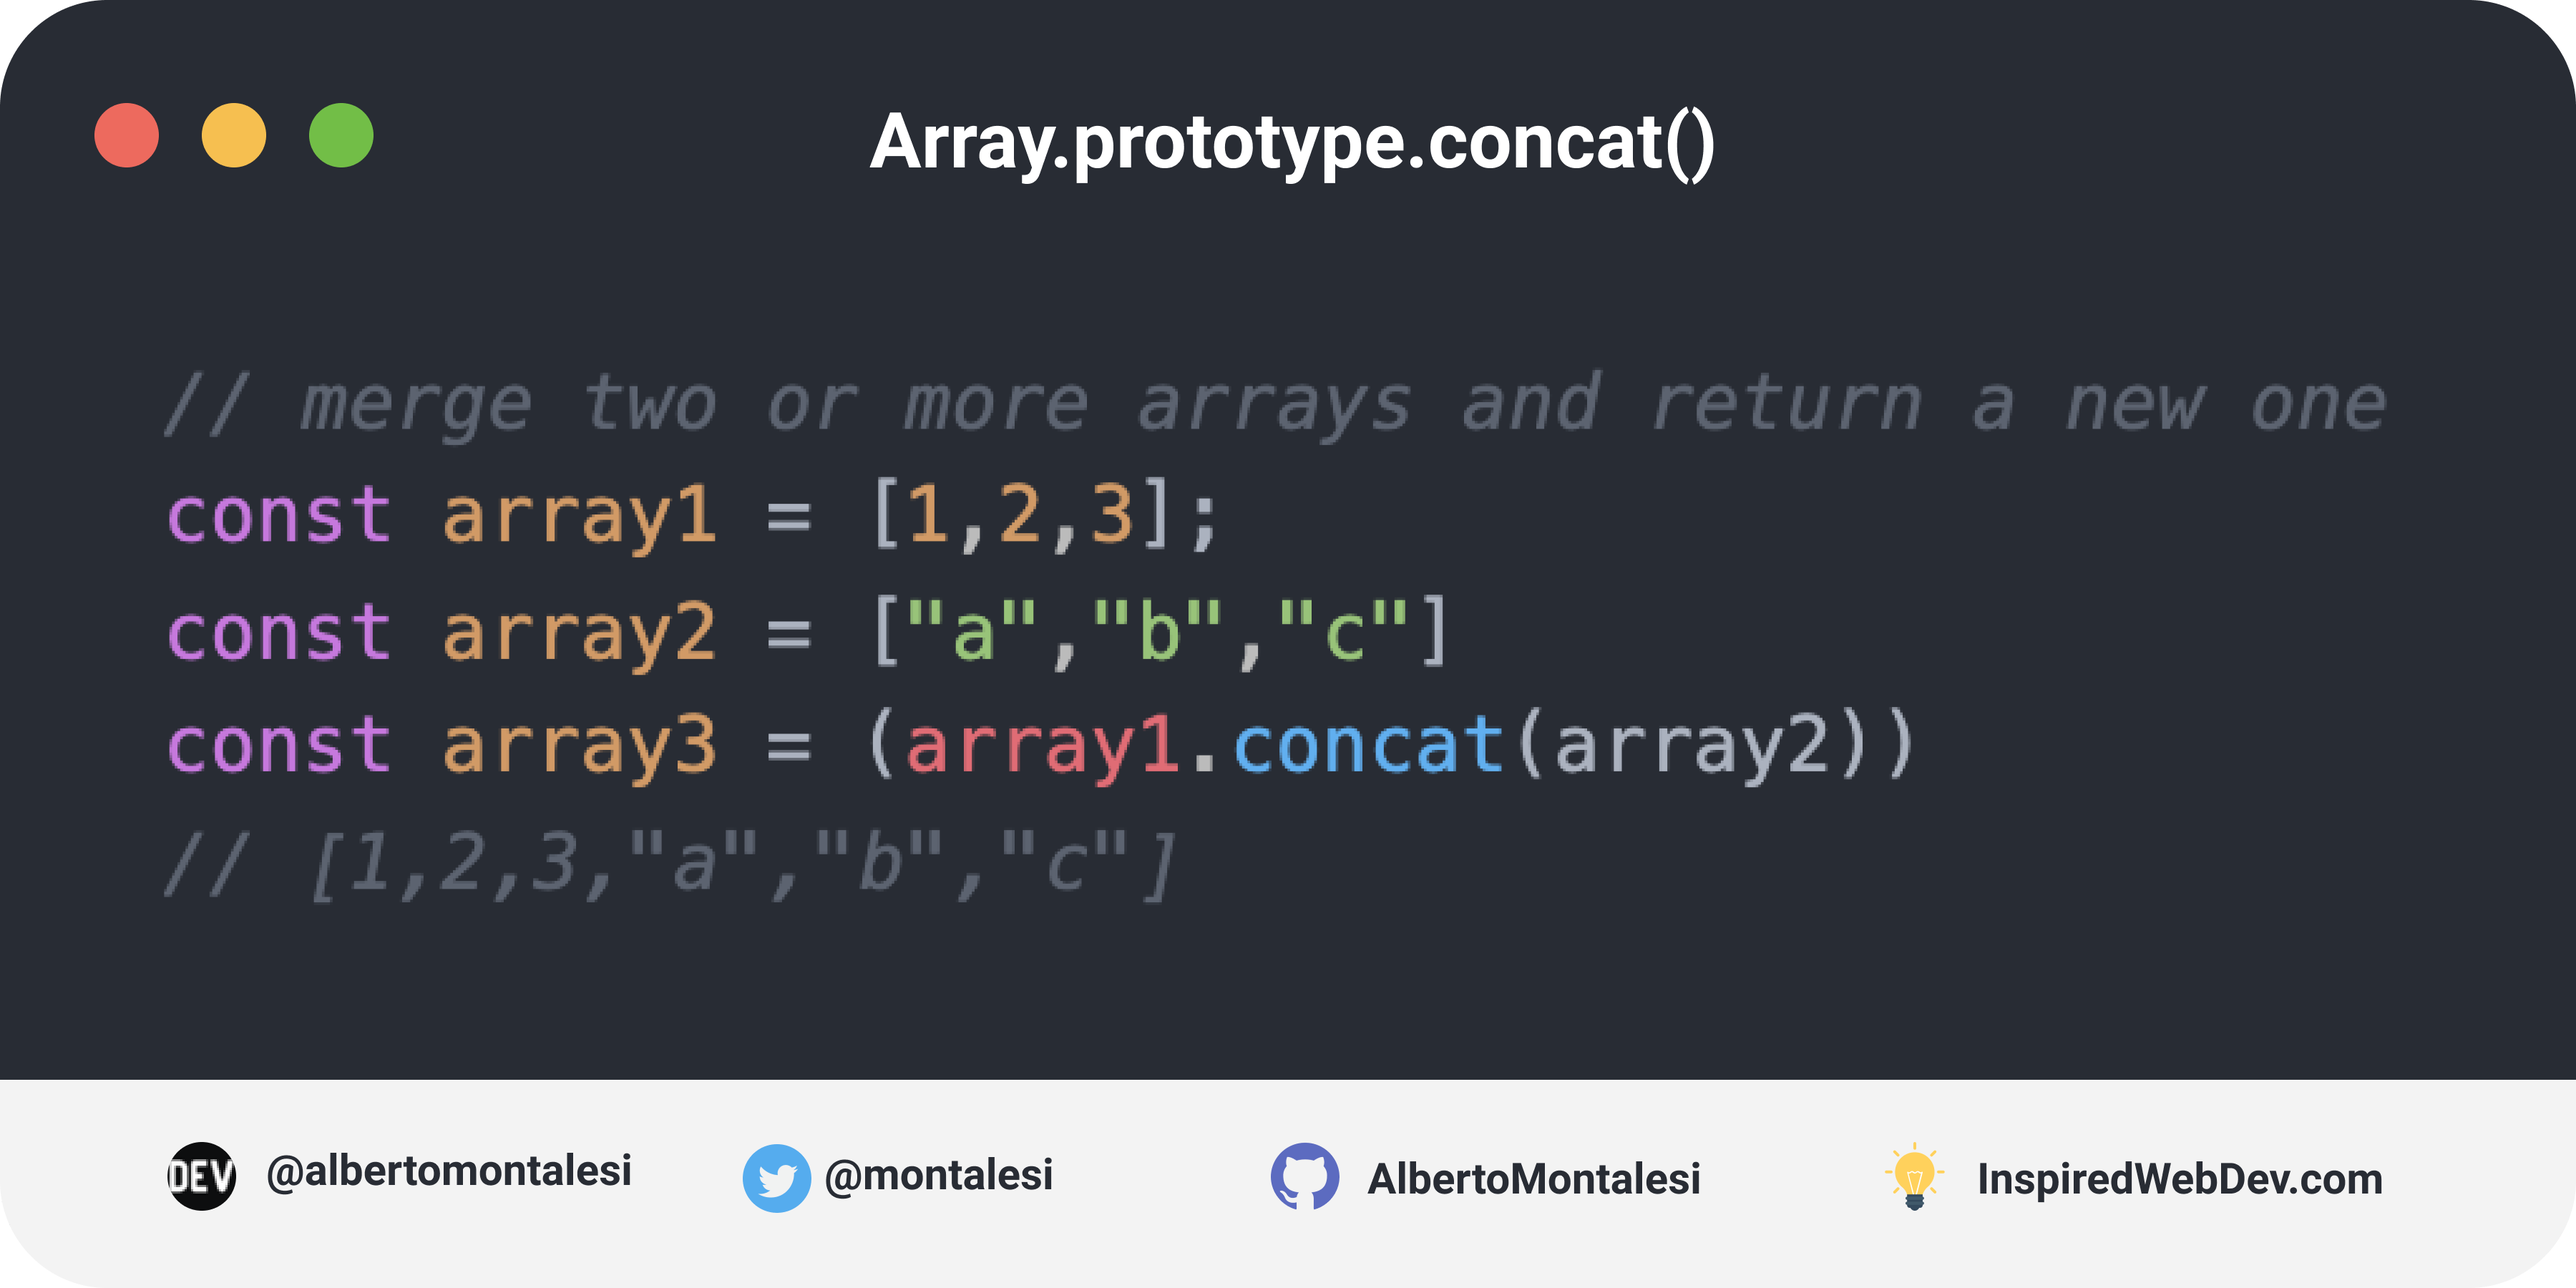
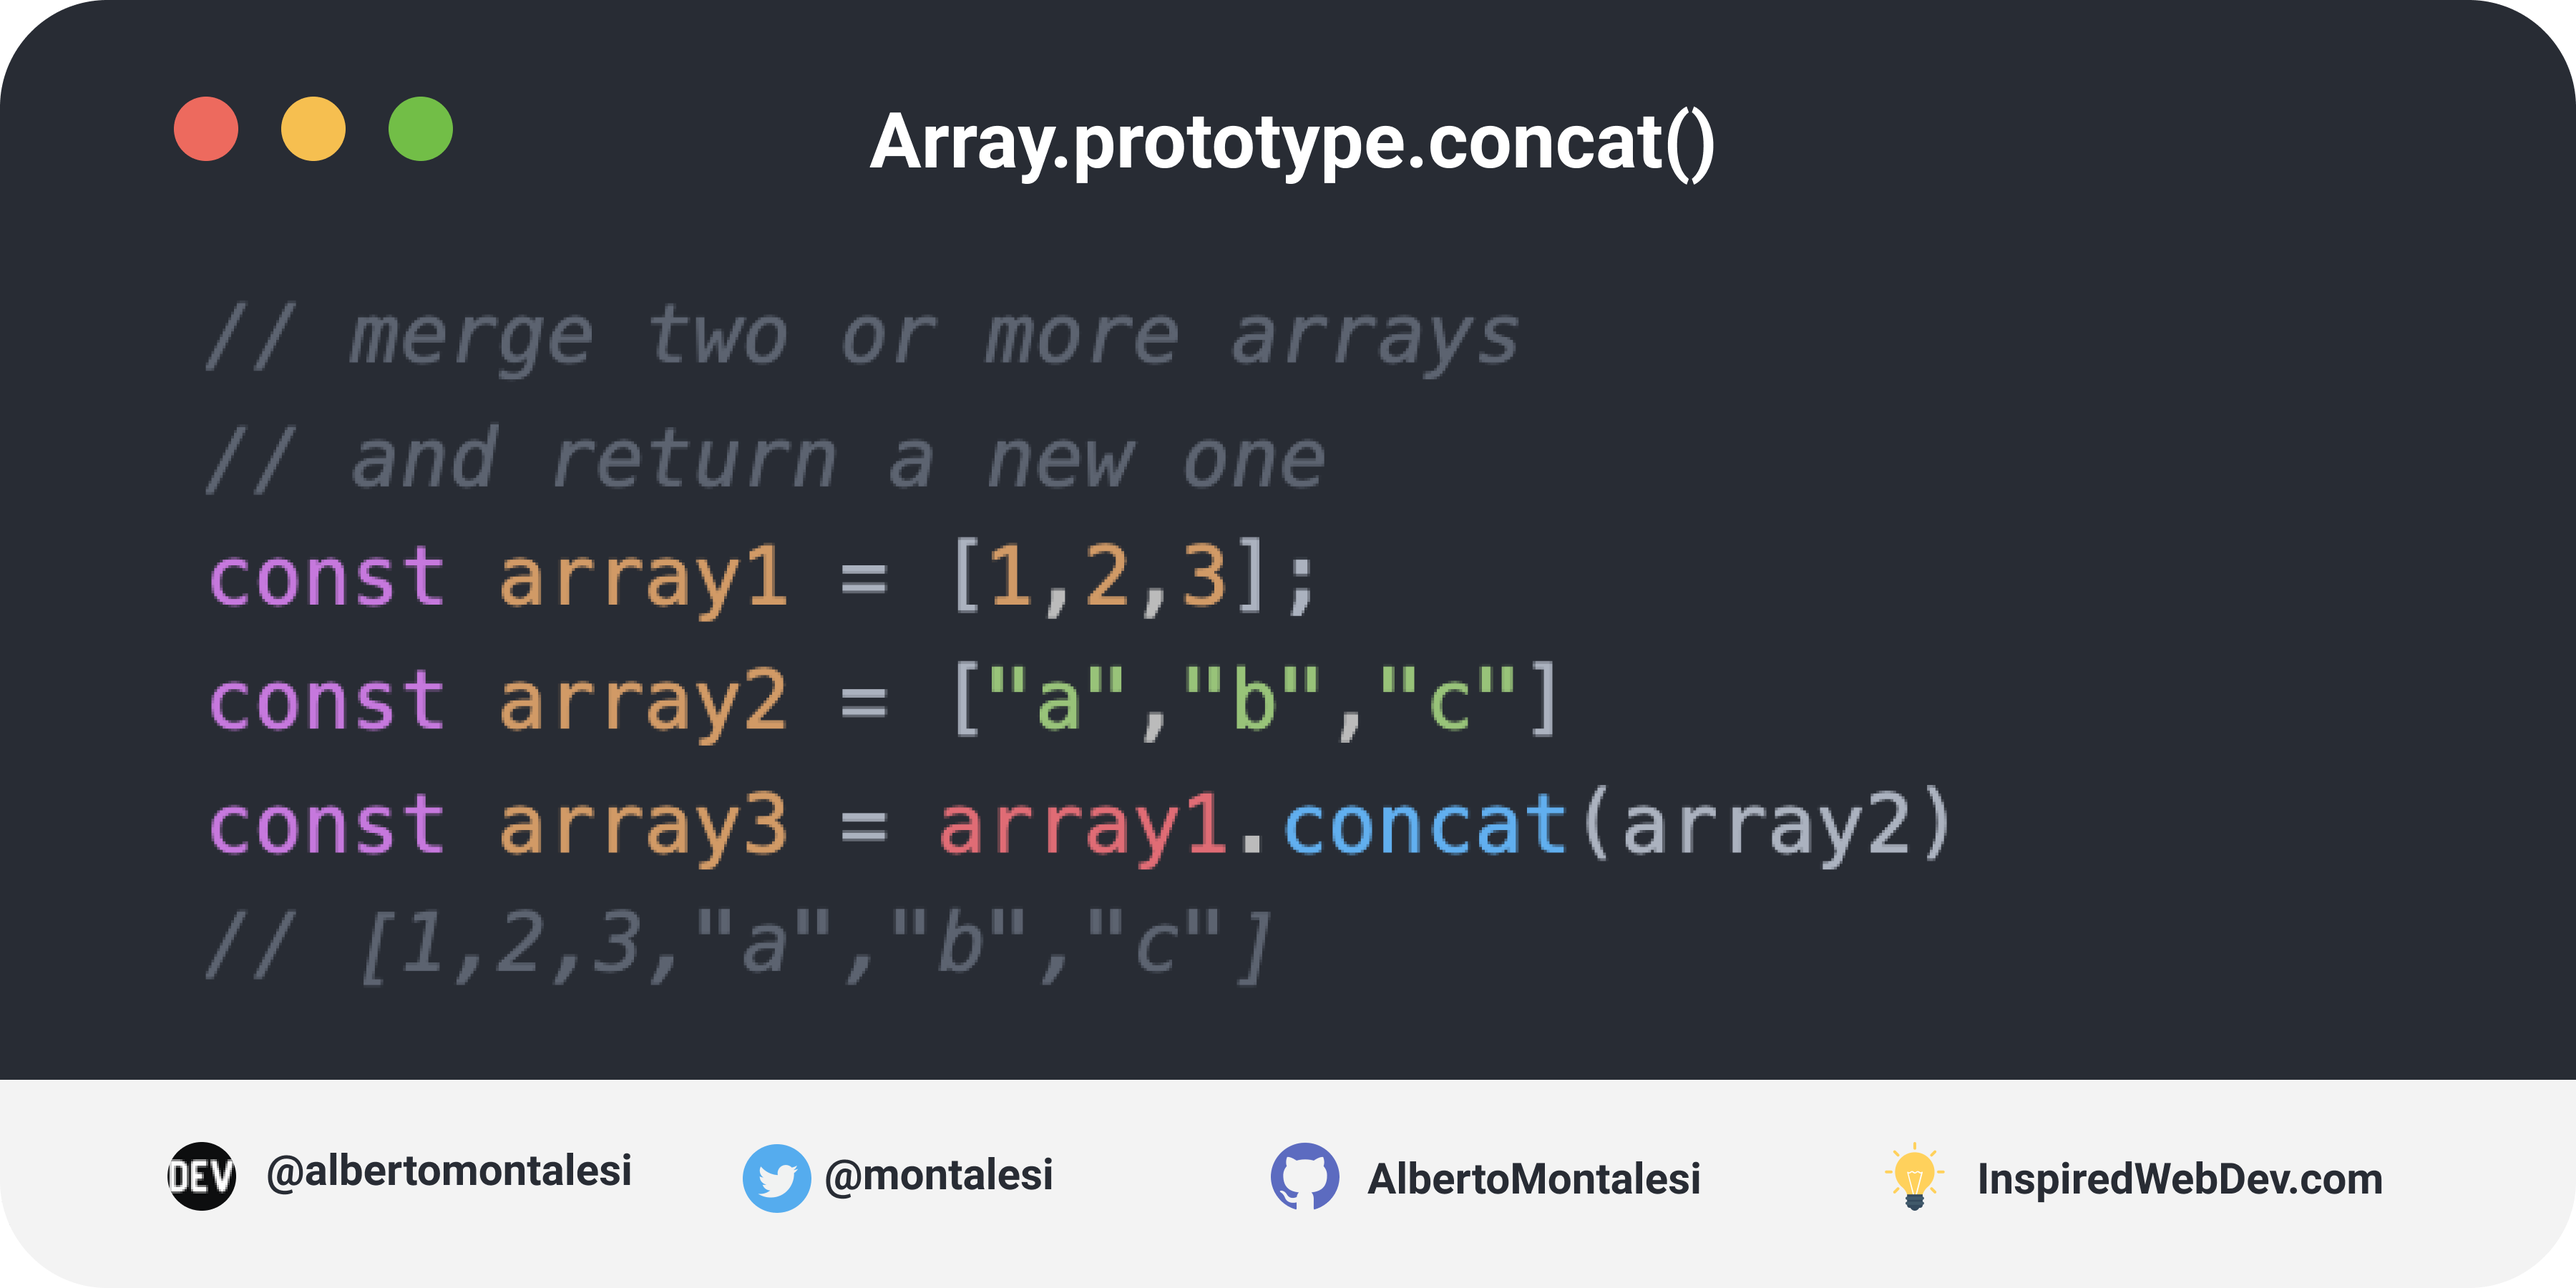
add array concat

Changed region(s): [[0.0622, 0.2489, 0.7778, 0.7778], [0.6533, 0.28, 0.9333, 0.3422], [0.0311, 0.0622, 0.1867, 0.1244]]

diff --git a/Topics/Array methods/Array.prototype.concat()/Array.prototype.concat().md b/Topics/Array methods/Array.prototype.concat()/Array.prototype.concat().md
@@ -4,7 +4,7 @@
 // and return a new one
 const array1 = [1,2,3];
 const array2 = ["a","b","c"]
-const array3 = (array1.concat(array2))
+const array3 = array1.concat(array2)
 // [1,2,3,"a","b","c"]
 
 
